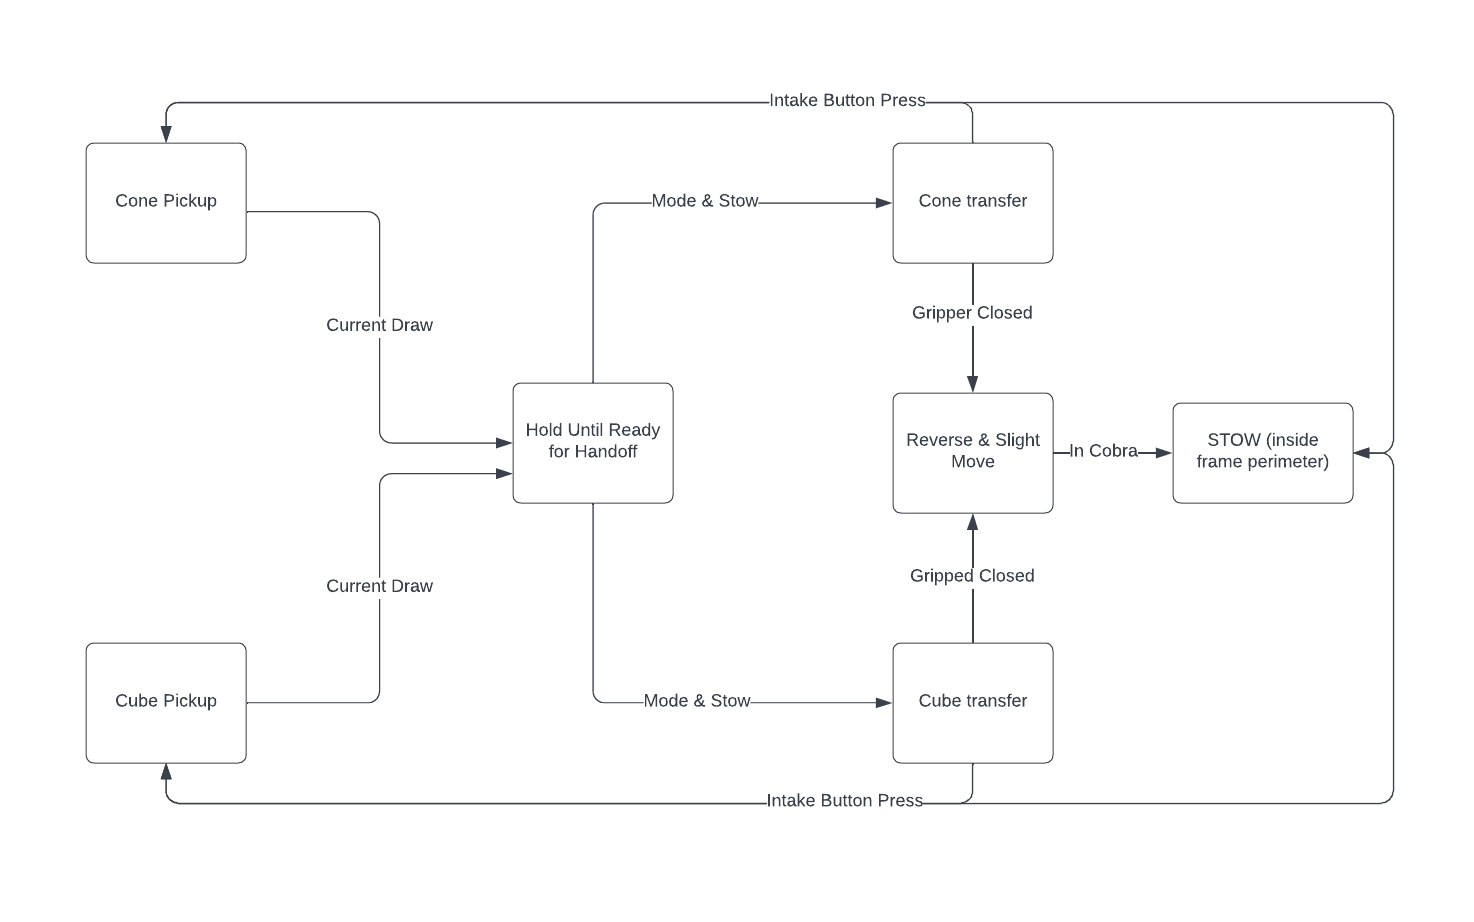
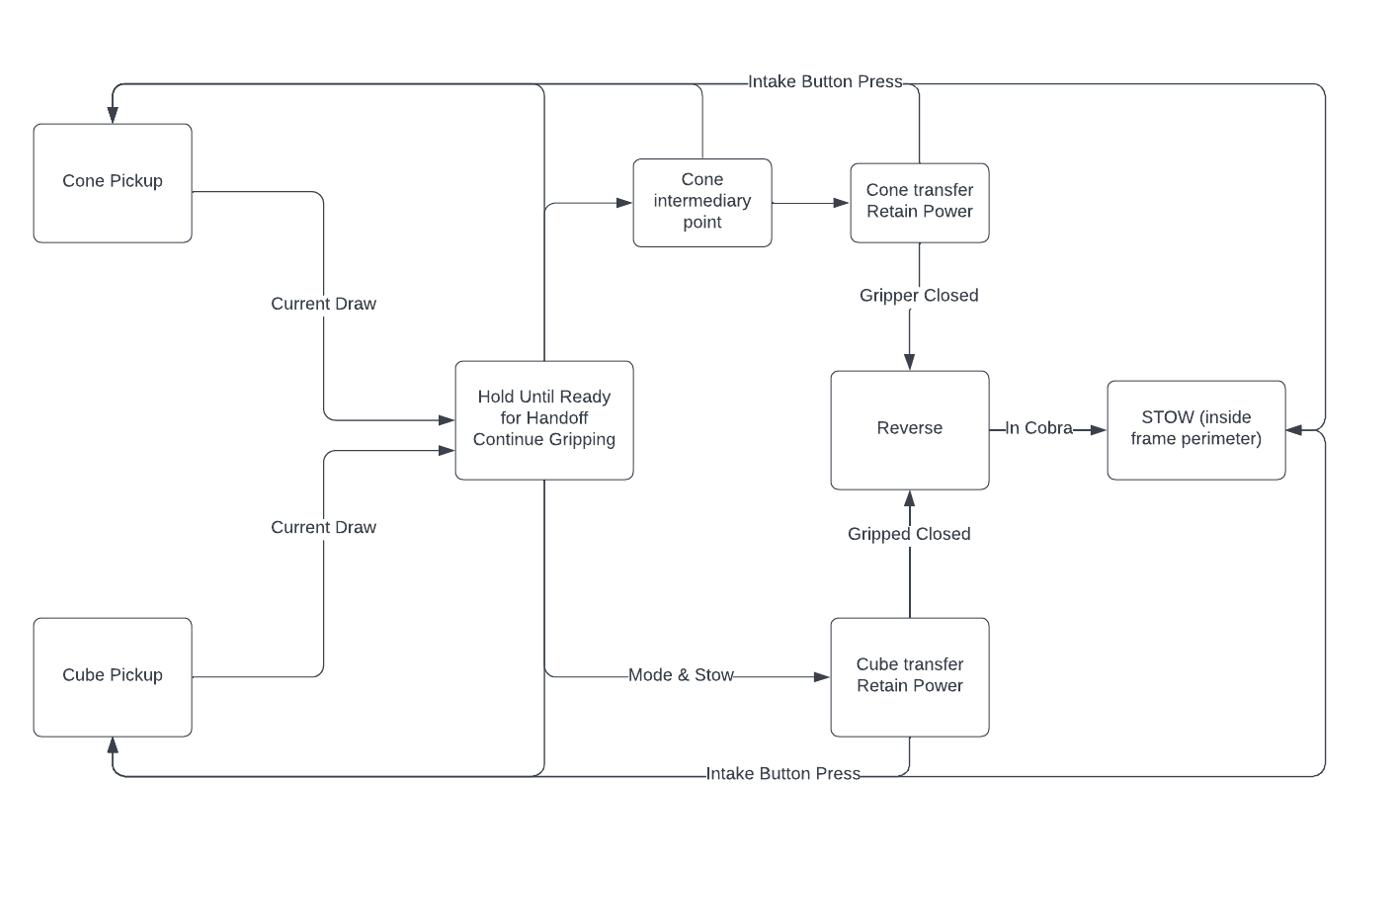
small intake updates

diff --git a/src/main/java/frc/robot/subsystems/IntakeSubsystem.java b/src/main/java/frc/robot/subsystems/IntakeSubsystem.java
@@ -17,6 +17,7 @@ import edu.wpi.first.wpilibj2.command.SubsystemBase;
 import frc.robot.Constants.FalconConstants;
 import frc.robot.Constants.IntakeConstants;
 import frc.robot.util.StateHandler;
+import frc.robot.util.StateVariables.GamePieceMode;
 import frc.robot.util.StateVariables.IntakePositions;
 
 public class IntakeSubsystem extends SubsystemBase {
@@ -58,9 +59,6 @@ public class IntakeSubsystem extends SubsystemBase {
     intakeDistalMotor.setNeutralMode(NeutralMode.Brake);
     leftIntakeWheelMotor.setNeutralMode(NeutralMode.Brake);
     rightIntakeWheelMotor.setNeutralMode(NeutralMode.Brake);
-
-    rightIntakeWheelMotor.follow(leftIntakeWheelMotor);
-    rightIntakeWheelMotor.setInverted(InvertType.OpposeMaster);
     
     resetIntakeProximalPosition(IntakePositions.STOW.getArmAngles().getProximalAngle());
     resetIntakeDistalPosition(IntakePositions.STOW.getArmAngles().getDistalAngle());
@@ -137,8 +135,24 @@ public class IntakeSubsystem extends SubsystemBase {
     return Math.atan(averageYG / averageXG);
   }
 
+  public void setWheelSpeed(){
+    if(stateHandler.getGamePieceMode() == GamePieceMode.CUBE){
+      leftIntakeWheelMotor.set(ControlMode.PercentOutput, IntakeConstants.cubeIntakeSpeed);
+      rightIntakeWheelMotor.set(ControlMode.PercentOutput, -IntakeConstants.cubeIntakeSpeed);
+    } else{
+      leftIntakeWheelMotor.set(ControlMode.PercentOutput, IntakeConstants.cubeIntakeSpeed);
+      rightIntakeWheelMotor.set(ControlMode.PercentOutput, IntakeConstants.cubeIntakeSpeed);
+    }
+  }
+
   public void setWheelSpeed(double stpt){
-    leftIntakeWheelMotor.set(ControlMode.PercentOutput, stpt);
+    if(stateHandler.getGamePieceMode() == GamePieceMode.CUBE){
+      leftIntakeWheelMotor.set(ControlMode.PercentOutput, stpt);
+      rightIntakeWheelMotor.set(ControlMode.PercentOutput, -stpt);
+    } else{
+      leftIntakeWheelMotor.set(ControlMode.PercentOutput, stpt);
+      rightIntakeWheelMotor.set(ControlMode.PercentOutput, stpt);
+    }
   }
 
   public void stopWheels(){

diff --git a/src/main/java/frc/robot/commands/IntakeCommands/SimpleStateIntakeCommand.java b/src/main/java/frc/robot/commands/IntakeCommands/SimpleStateIntakeCommand.java
@@ -1,0 +1,45 @@
+// Copyright (c) FIRST and other WPILib contributors.
+// Open Source Software; you can modify and/or share it under the terms of
+// the WPILib BSD license file in the root directory of this project.
+
+package frc.robot.commands.IntakeCommands;
+
+import edu.wpi.first.wpilibj2.command.CommandBase;
+import frc.robot.subsystems.IntakeSubsystem;
+import frc.robot.util.StateHandler;
+import frc.robot.util.StateVariables.IntakePositions;
+
+public class SimpleStateIntakeCommand extends CommandBase {
+  /** Creates a new SimpleStateIntakeCommand. */
+  IntakeSubsystem intake;
+  StateHandler stateHandler = StateHandler.getInstance();
+  public SimpleStateIntakeCommand(IntakeSubsystem i) {
+    this.intake = i;
+    addRequirements(intake);
+    // Use addRequirements() here to declare subsystem dependencies.
+  }
+
+  // Called when the command is initially scheduled.
+  @Override
+  public void initialize() {}
+
+  // Called every time the scheduler runs while the command is scheduled.
+  @Override
+  public void execute() {
+    intake.setIntakeProximalPosition(stateHandler.getDesiredIntakePosition().getArmAngles().getProximalAngle());
+    intake.setIntakeDistalPosition(stateHandler.getDesiredIntakePosition().getArmAngles().getDistalAngle());
+  }
+
+  // Called once the command ends or is interrupted.
+  @Override
+  public void end(boolean interrupted) {
+    intake.setIntakeProximalPosition(IntakePositions.STOW.getArmAngles().getProximalAngle());
+    intake.setIntakeDistalPosition(IntakePositions.STOW.getArmAngles().getDistalAngle());
+  }
+
+  // Returns true when the command should end.
+  @Override
+  public boolean isFinished() {
+    return false;
+  }
+}
